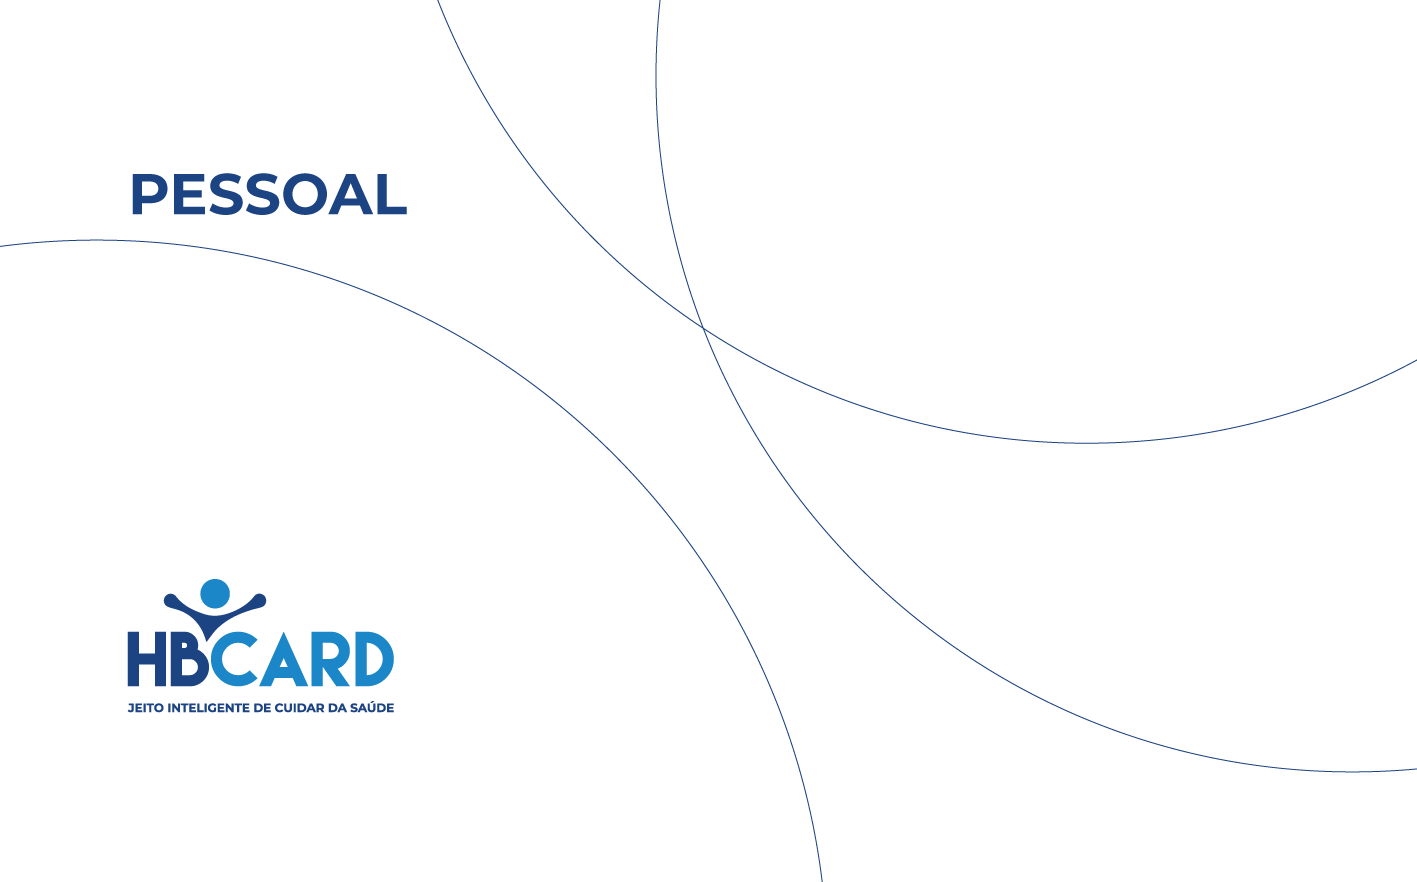
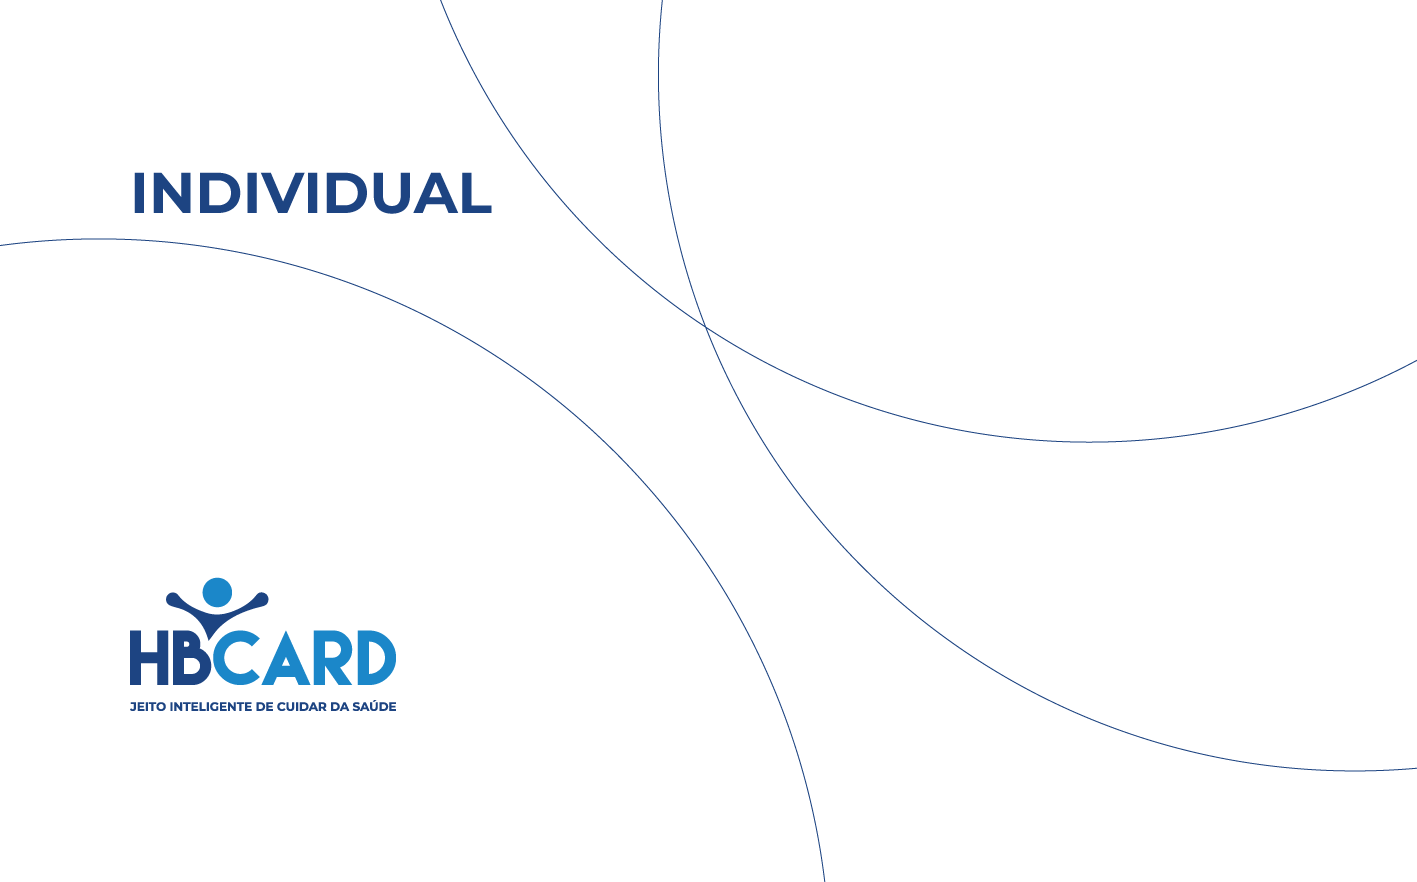
newFeatures

diff --git a/src/components/upload/UploadCard.js b/src/components/upload/UploadCard.js
@@ -1,0 +1,119 @@
+import styled from "styled-components"
+import { useState } from "react"
+import SelectContainer from "../form/SelectContainer"
+import ButtonContainer from "../utils/ButtonContainer"
+import * as XLSX from 'xlsx';
+import BusinessCard from "../card/BusinessCard";
+import PersonalCard from "../card/Personalcard";
+
+const UploadCardContainer = styled.div`
+    display: flex;
+    align-items: center;
+    justify-content: center;
+    flex-direction: column;
+    background-color: #fff;
+    width: 450px;
+    height: 350px;
+    padding: 14px;
+    border-radius: 8px;
+    box-shadow: 2px 2px 4px 2px rgba(0, 0, 0, 0.1);
+    margin-bottom: 40px;
+    font-size: 22px;
+`
+
+function UploadCard(){
+
+    const [file, setFile] = useState(null)
+    const [tipo, setTipo] = useState('Individual')
+    const [empresa, setEmpresa] = useState('Veloo')
+    const [lista, setLista] = useState(null)
+    const [show, setShow] = useState(false)
+
+    const options = [
+        { value: 'Individual', label: 'Individual'},
+        { value: 'Empresarial', label: 'Empresarial'}
+    ]
+
+    const Empresas = [
+        { value: 'Veloo', label: 'Veloo'},
+        { value: 'Itelx', label: 'Itelx'},
+        { value: 'MaisTV', label: 'MaisTV'},
+        { value: 'Sitramico', label: 'Sitramico'},
+        { value: 'Colégio Santa Úrsula', label: 'Colégio Santa Úrsula'},
+    ]
+
+    const tratarDadosDaPlanilha = () => {
+        if(file){
+            const reader = new FileReader();
+            reader.onload = (e) => {
+                const data = new Uint8Array(e.target.result);
+                const workbook = XLSX.read(data, {type: 'array'});
+                const sheetName = workbook.SheetNames[0];
+                const sheet = workbook.Sheets[sheetName];
+                const dataJson = XLSX.utils.sheet_to_json(sheet);
+
+                const values = dataJson.map(row => row[Object.keys(row)[0]]);
+                setLista(values);
+                console.log(values);
+                setShow(true)
+            };
+            reader.readAsArrayBuffer(file);
+        }
+    };
+
+    const gerarCodigo = () => {
+        const codigo = Math.floor(Math.random() * (99999 - 10000 + 1)) + 10000
+        return codigo
+    }
+
+    return(
+        <div>
+            { !show && (<UploadCardContainer>
+            <SelectContainer
+                value={tipo}
+                label='Tipo'
+                options={options}
+                onChange={(event) => (setTipo(event.target.value))}
+            />
+
+            {tipo === 'Empresarial' &&
+                <SelectContainer
+                    value={empresa}
+                    label='Empresa'
+                    options={Empresas}
+                    onChange={(event) => (setEmpresa(event.target.value))}
+                />
+            }
+            
+            <div>
+                <input 
+                    type="file"
+                    accept=".xlsx" 
+                    onChange={(event) => (setFile(event.target.files[0]))}
+                />
+            </div>
+
+            <ButtonContainer 
+                onClick={tratarDadosDaPlanilha}
+                title="Gerar"
+            />
+        </UploadCardContainer>)}
+
+        {show && tipo === 'Individual' && (
+            lista.map((item, index) => (
+            <PersonalCard key={index} nome={item} codigo={gerarCodigo()} />
+            ))
+        )}
+
+        {show && tipo === 'Empresarial' && (
+            lista.map((item, index) => (
+            <BusinessCard key={index} nome={item} codigo={gerarCodigo()} empresa={empresa} />
+            ))
+        )}
+
+        </div>
+        
+    );
+}
+
+export default UploadCard;

diff --git a/src/components/menu/MenuCard.js b/src/components/menu/MenuCard.js
@@ -1,0 +1,39 @@
+import styled from "styled-components"
+import { useNavigate } from "react-router-dom"
+
+const MenuCardContainer = styled.div`
+    display: flex;
+    align-items: center;
+    justify-content: center;
+    background-color: #fff;
+    width: 450px;
+    height: 150px;
+    padding: 14px;
+    border-radius: 8px;
+    box-shadow: 2px 2px 4px 2px rgba(0, 0, 0, 0.1);
+    cursor: pointer;
+    margin-bottom: 40px;
+    font-size: 22px;
+
+    &:hover{
+        background-color: #f1f1f9;
+    }
+
+`
+
+function MenuCard(props){
+
+    const {title, navigate} = props
+
+    const navigator = useNavigate()
+
+    return(
+        <MenuCardContainer
+        onClick={() => (navigator(`/${navigate}`))}
+        >
+            {title}
+        </MenuCardContainer>
+    )
+}
+
+export default MenuCard

diff --git a/src/App.js b/src/App.js
@@ -1,11 +1,19 @@
-
 import GeraCarteirinhaIndividual from "./views/GeraCarteirinhaIndividual";
+import GeraCarteirinhaEmLote from "./views/GeraCarteirinaEmLote";
+import Menu from "./views/Menu";
+
+import { BrowserRouter as Router, Route, Routes } from 'react-router-dom';
+
 
 function App() {
   return (
-    <div>
-      <GeraCarteirinhaIndividual/>
-    </div>
+    <Router>
+      <Routes>
+        <Route path='/' element={<Menu/>}/>
+        <Route path='/individual' element={<GeraCarteirinhaIndividual/>}/>
+        <Route path='/emLote' element={<GeraCarteirinhaEmLote/>}/>
+      </Routes>
+    </Router>
   );
 }
 

diff --git a/src/views/Menu.js b/src/views/Menu.js
@@ -1,0 +1,27 @@
+import styled from "styled-components";
+import MenuCard from "../components/menu/MenuCard";
+
+const MainContainer = styled.div`
+  display: flex;
+  align-items: center;
+  justify-content: center;
+  flex-direction: column;
+  height: 100vh;
+`
+
+
+function Menu(){
+    return(
+        <MainContainer>
+            <MenuCard
+            title="Individual"
+            navigate="Individual"/>
+            <MenuCard
+            title="Em Lote"
+            navigate="emLote"/>
+        </MainContainer>
+        
+    )
+}
+
+export default Menu

diff --git a/src/components/form/FormContainer.js b/src/components/form/FormContainer.js
@@ -46,7 +46,7 @@ function FormContainer({onClick}){
         { value: 'Veloo', label: 'Veloo'},
         { value: 'Itelx', label: 'Itelx'},
         { value: 'MaisTV', label: 'MaisTV'},
-        { value: 'ATM', label: 'ATM'},
+        { value: 'Sitramico', label: 'Sitramico'},
         { value: 'Colégio Santa Úrsula', label: 'Colégio Santa Úrsula'},
         
     ]

diff --git a/src/views/GeraCarteirinaEmLote.js b/src/views/GeraCarteirinaEmLote.js
@@ -1,0 +1,11 @@
+import UploadCard from "../components/upload/UploadCard";
+function GeraCarteirinhaEmLote(){
+    return(
+        <div>
+            <UploadCard/>
+        </div>
+        
+    )
+}
+
+export default GeraCarteirinhaEmLote
